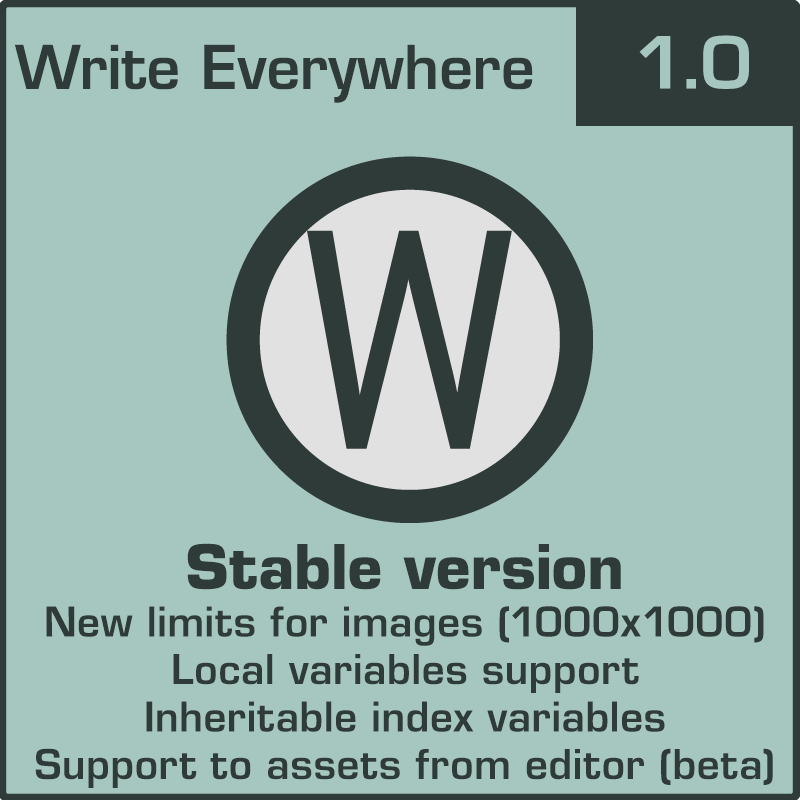
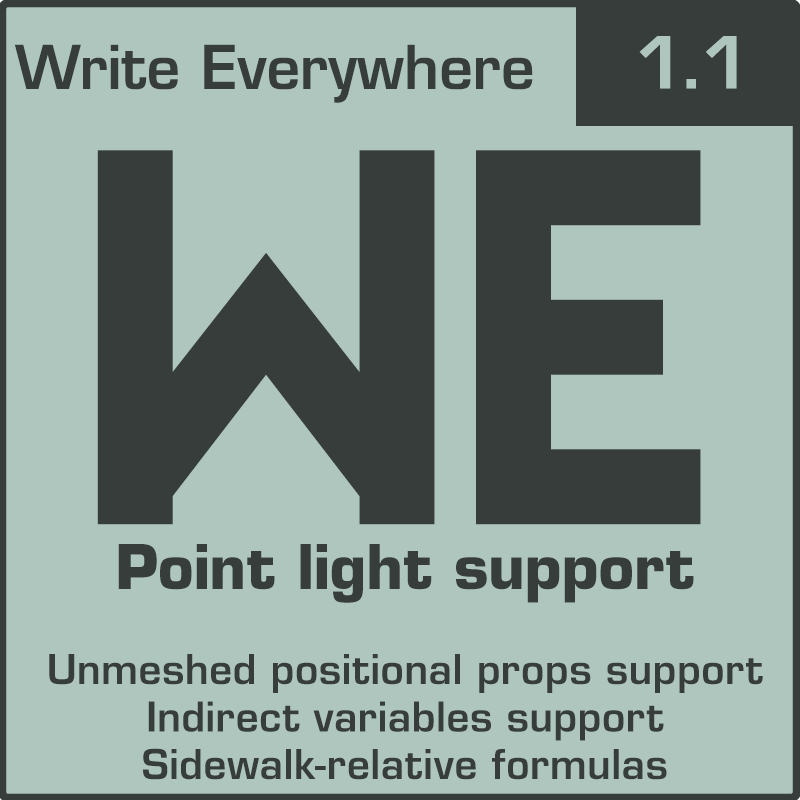
v1.1.0r0 Updating Changelog

diff --git a/BelzontWE/changelog.md b/BelzontWE/changelog.md
@@ -1,40 +1,12 @@
-# v1.0.1r1 (04-JAN-26)
-- Fixes for atlases loaded from assets
-- Fixes for uploading WE data when the packaging process is done before the publishing process
-- Scoping layouts from assets to their own database only. It means layouts loaded along assets only will apply to assets from that package.
-
-## FROM  v1.0.1r0 (21-DEC-25)
-
-- Now meshes backface are not rendered by default. You can enable it from the shader window, but it's not recommended.
-- Added new view angles for the fixed camera (bottom, left and back)
-- Bottom, top, left and right perspectives now can have their tilt adjusted as needed
-
-#v1.0.0r0-8
-
-- Allowing non-assembly mods (i.e. Assets) to register WE stuff: (beta feature, may change in future)
- - Need to add files into a folder "K45_WE" at same level of the prefab root
- - Subfolder structure is the same from the WE Module template project ( https://github.com/klyte45/CS2-WEModuleTemplate/tree/master/_BaseModule/Resources ), but fonts are not supported
-- Setting up new limits for WE stuff:
- - Maximum atlas size (with all images filling it) will be lowered from 16384x16384 to 4096x4096
- - Maximum image size for the atlas (each entry) will be lowered from 2048x2048 to 1000x1000 - except mod integrations that will allow 4094x4094 when using byte arrays signature
-- Added support to local variables: variables starting with "!" will not be passed to children node trees
-- Added support to multilevel variables: variables starting with "$" (like array index variable "$idx") will not erase older values if more than once at variable stack. It will generate numbered entries for deeper stack values (ex: "$idx_0", "$idx_1", ...). The latest value will still being presented on original variable name.
-- Fixed minor issues related to cross-reference renderings
-
-- Possible fix for vanilla bug that prevented WE UI to be loaded
-- Fixing issue for sometimes text get broken in some situations
-
-- Fix for atlas visualization in UI erasing it from the game (causing NullPointerException on UI)
-
-- Fix for atlas exporing erasing it from the game (causing rendering issues)
-
-- Possible fix for "0 != 0" assertion error
-- Fixed issue related to camera zooming into text layout not working properly on moveable assets (like vehicles)
-
-
-- Fixed loading K45_WE folder contents for assets
-- Now prevents UI erasing font name data if it was not changed
-- Fix for null reference exception due WEDisposalJob issue
-- Fixed more locations when atlases were disposed incorrectly
-- 
-- Fixed uploader for assets layouts. The folder K45_WE shall be present at same folder where the main prefab is located.  
+# v1.1.0r0 (29-MAR-26)
+- Added punctual lights support: set emissive on a WE text mesh and toggle the "Use Global Illumination" checkbox on to enable point light emission from that element
+- New `WEAttachedFn` formula functions for sidewalk-relative offset calculations
+- Added formulae for indirect value getter: reference another formula's result value indirectly within an expression
+- Added waypoints indexing formulae: access waypoint indexes within formula expressions
+- Added support to render WE layouts on unmeshed entities that belong to a meshed entity and have a transform component
+- New mod logo - CS1 classic style
+- Added support for Z-reversed white cube geometry
+- Plane movement offset directions now match the current view orientation
+- Camera position for XZ planes corrected
+- FIXED: UI for WE tool options when using decal shader becomes messy
+- FIXED: Layouts failed to load when more than 10,000 chunks were waiting to be processed

diff --git a/_AiPrompts/UpdateChangelog.prompt.md b/_AiPrompts/UpdateChangelog.prompt.md
@@ -1,0 +1,66 @@
+---
+mode: agent
+---
+
+# Task: Update Changelog and Release Version
+
+Perform all steps below without stopping to prompt the user for input. Use the information already available in the repository to make all decisions automatically.
+
+## Step 1 — Find the last released version commit
+
+In the git repository located at the `gitWorkspace` folder (not any subfolder), run:
+
+```
+git log --oneline -60
+```
+
+Find the most recent commit whose message starts with the pattern `vX.Y.ZrW` (e.g. `v1.0.1r1`). That is the **last released version**. Note its commit hash, version string, and the date from the changelog file for that version.
+
+## Step 2 — Collect commits since the last release
+
+Run:
+
+```
+git log <last_release_hash>..HEAD --format="%H%n%s%n%b%n---COMMIT_END---"
+```
+
+Collect all commit messages to use as the source of changelog content.
+
+## Step 3 — Determine the target version
+
+Read the `Version` tag from the main project's `.csproj` file (`BelzontWE/BelzontWE.csproj`). The value is in `X.Y.Z.W` format, which maps to `vX.Y.ZrW`. **This is the version to use for the new changelog entry.** Do not ask the user — use this value directly. If the value is the same of last version, assume it's a patch update and increment the `rW` part by 1 (e.g. `v1.0.1r1` → `v1.0.1r2`) and also update the project file's tag.
+
+## Step 4 — Determine changelog history behavior
+
+Compare the date of the last released version (from the changelog heading) with today's date:
+
+- If **less than 1 month** has passed: keep the previous changelog content, but change the `#` heading of the previous version to `## FROM` (or if it is already `## FROM`, leave it as `## FROM`; any deeper `## FROM` headings become just `##`).
+- If **1 month or more** has passed: discard the previous changelog content entirely. Do not include any `## FROM` sections.
+
+## Step 5 — Write the changelog
+
+Update `BelzontWE/changelog.md`. Replace the entire file content with the new version at the top, followed by historical entries (if applicable per Step 4).
+
+The new top entry format:
+```
+# vX.Y.ZrW (DD-MMM-YY)
+```
+Use today's date for the entry date. NOTE: Month must be english abbreviated form (e.g. `JAN`, `FEB`, `MAR`, etc.).
+
+Organize the bullet points in this order:
+1. **New features added** — with a short phrase showing how to use it
+2. **Behaviors changed** — features that already existed but now work differently
+3. **Bugs fixed** — always start with `FIXED:` and describe what WAS happening before the fix
+
+Source all content from the commit messages collected in Step 2. Do not invent or pad entries.
+
+## Step 6 — Commit
+
+Stage and commit only `BelzontWE/changelog.md` (the `.csproj` is already correct since the version was read from it):
+
+```
+git add BelzontWE/changelog.md
+git commit -m "vX.Y.ZrW\nUpdating Changelog"
+```
+
+Replace `vX.Y.ZrW` with the actual version string.
